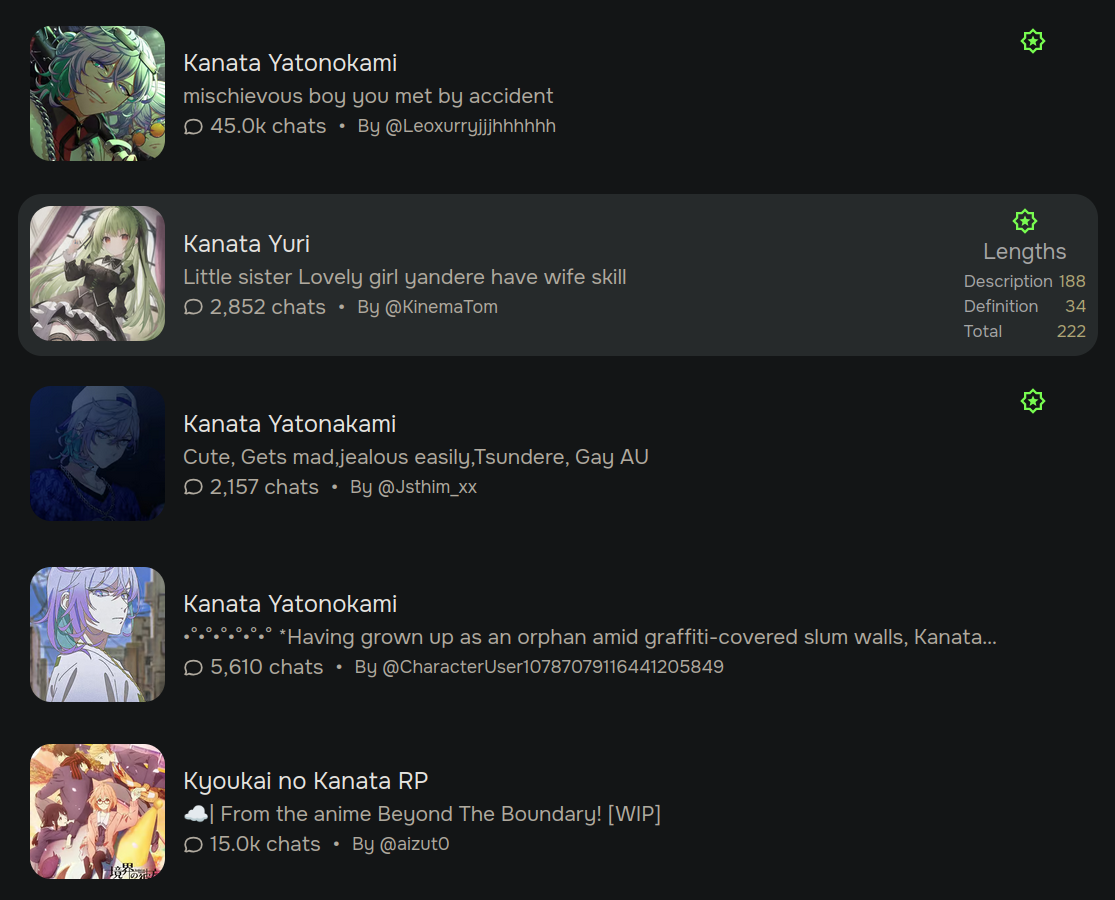
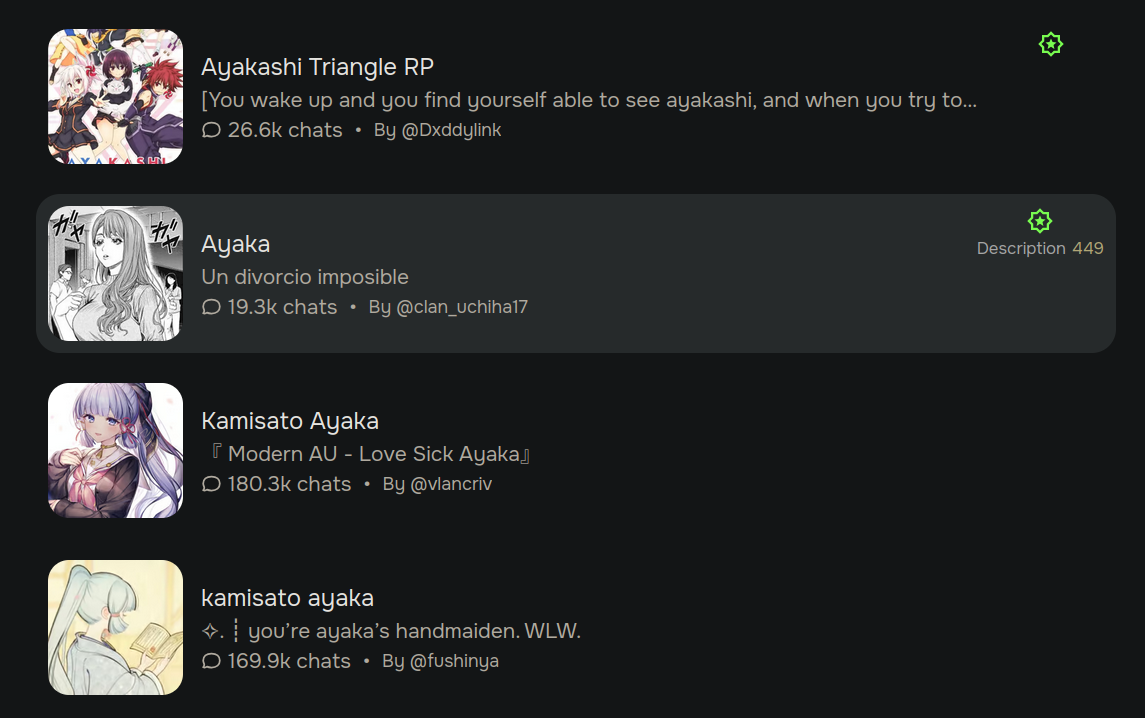
chore(release): 1.1.0
seems like they removed ability to see definition at all so leaving to
only open description. Now it useful only to determine wether 3 dots
menu is avaliable for character from listing.

diff --git a/index.user.js b/index.user.js
@@ -3,7 +3,7 @@
 // @author        EnergoStalin
 // @description   Sort search so cards with public definition stays on top and marked with a star
 // @license       AGPL-3.0-only
-// @version       1.0.5
+// @version       1.1.0
 // @namespace     https://c.ai
 // @match         https://character.ai/*
 // @run-at        document-body
@@ -106,9 +106,6 @@ GM.addStyle(`
 .align-items-start {
   align-items: flex-start;
 }
-.text-center {
-  text-align: center;
-}
 `);
 
 // src/icons.ts
@@ -133,25 +130,14 @@ function isStarred(card) {
   return Boolean(card.querySelector('div[data-status="starred"]'));
 }
 __name(isStarred, "isStarred");
-function setStarredStatus(card, description, definition) {
+function setStarredStatus(card, description) {
   statusWrapper(card, "starred").innerHTML = `
 		<div class="flex grow-0 shrink-0 justify-center">
 			${starredIcon}
 		</div>
-		<div class="flex flex-col tooltip-text">
-			<span class="tooltip-head">Lengths</span>
-			<div class="flex flex-row gap-1">
-				<span class="tooltip-even">Description</span>
-				<span class="tooltip-even tooltip-number">${description.length}</span>
-			</div>
-			<div class="flex flex-row gap-1">
-				<span class="tooltip-even">Definition</span>
-				<span class="tooltip-even tooltip-number">${definition.length}</span>
-			</div>
-			<div class="flex flex-row gap-1">
-				<span class="tooltip-even">Total</span>
-				<span class="tooltip-even tooltip-number">${definition.length + description.length}</span>
-			</div>
+		<div class="flex flex-row gap-1 tooltip-text">
+			<span class="tooltip-even">Description</span>
+			<span class="tooltip-even tooltip-number">${description.length}</span>
 		</div>
 	`;
 }
@@ -173,8 +159,8 @@ async function _sort(container) {
     setPendingStatus(card);
     const info = await getCharacterInfo(card.href.split("/").pop());
     clearStatus(card);
-    if (info.definition) {
-      setStarredStatus(card, info.description, info.definition);
+    if (info.copyable) {
+      setStarredStatus(card, info.description);
     } else {
       container.append(card);
     }

diff --git a/src/statuses.ts b/src/statuses.ts
@@ -20,29 +20,14 @@ export function statusWrapper(card: HTMLElement, status: string) {
 export function isStarred(card: HTMLElement) {
 	return Boolean(card.querySelector('div[data-status="starred"]'))
 }
-export function setStarredStatus(
-	card: HTMLElement,
-	description: string,
-	definition: string,
-) {
+export function setStarredStatus(card: HTMLElement, description: string) {
 	statusWrapper(card, "starred").innerHTML = `
 		<div class="flex grow-0 shrink-0 justify-center">
 			${starredIcon}
 		</div>
-		<div class="flex flex-col tooltip-text">
-			<span class="tooltip-head">Lengths</span>
-			<div class="flex flex-row gap-1">
-				<span class="tooltip-even">Description</span>
-				<span class="tooltip-even tooltip-number">${description.length}</span>
-			</div>
-			<div class="flex flex-row gap-1">
-				<span class="tooltip-even">Definition</span>
-				<span class="tooltip-even tooltip-number">${definition.length}</span>
-			</div>
-			<div class="flex flex-row gap-1">
-				<span class="tooltip-even">Total</span>
-				<span class="tooltip-even tooltip-number">${definition.length + description.length}</span>
-			</div>
+		<div class="flex flex-row gap-1 tooltip-text">
+			<span class="tooltip-even">Description</span>
+			<span class="tooltip-even tooltip-number">${description.length}</span>
 		</div>
 	`
 }

diff --git a/src/sorting/definition.ts b/src/sorting/definition.ts
@@ -18,8 +18,8 @@ async function _sort(container: HTMLElement) {
 		)
 		clearStatus(card)
 
-		if (info.definition) {
-			setStarredStatus(card, info.description, info.definition)
+		if (info.copyable) {
+			setStarredStatus(card, info.description)
 		} else {
 			container.append(card)
 		}

diff --git a/src/styles/bootstrap.css b/src/styles/bootstrap.css
@@ -1,7 +1,3 @@
 .align-items-start {
 	align-items: flex-start;
 }
-
-.text-center {
-	text-align: center;
-}
